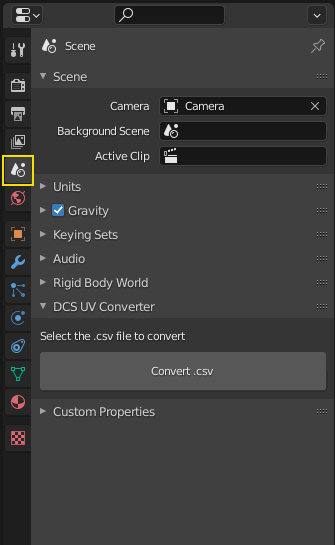
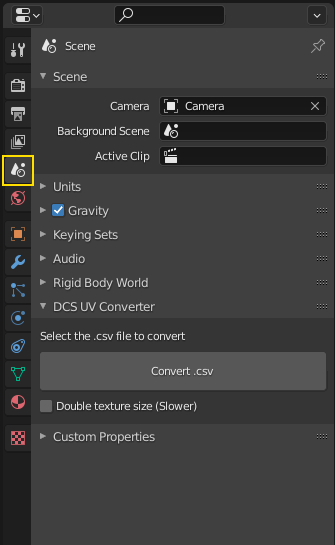
0.2.0-alpha update

Changed region(s): [[0.1194, 0.7174, 0.4776, 0.811], [0.4776, 0.7174, 0.597, 0.7486]]

diff --git a/DCSUVConverter/__init__.py b/DCSUVConverter/__init__.py
@@ -1,7 +1,7 @@
 bl_info = {
     "name": "DCS UV Converter",
     "author": "Ettenmure",
-    "version": (0, 1, 0),
+    "version": (0, 2, 0),
     "blender": (2, 92, 0),
     "location": "Scene Properties",
     "description": "Converts UV maps generated on ModelViewer 2 to an image format",
@@ -10,42 +10,92 @@ bl_info = {
     "category": "UV",
 }
 
+# TODO: 
+# Fix self report not working.
+# Change from bpy.ops to bmesh.
+# Follow Blender API best practices.
+
 import bpy
 import os
 import csv
 import bmesh
 import mathutils
 
-from bpy.props import StringProperty, BoolProperty
+from bpy.props import (StringProperty,
+                       BoolProperty,
+                       IntProperty,
+                       FloatProperty,
+                       FloatVectorProperty,
+                       EnumProperty,
+                       PointerProperty,
+                       )
+from bpy.types import (Panel,
+                       Operator,
+                       AddonPreferences,
+                       PropertyGroup,
+                       )
 from bpy_extras.io_utils import ImportHelper
-from bpy.types import Operator
 
 
-#TODO: Separate it into modules.
-
-class DUCConvertCSV(Operator, ImportHelper):
-    """Select the .csv file to convert"""      # Use this as a tooltip for menu items and buttons.
-    bl_idname = "object.duccsvimport"        # Unique identifier for buttons and menu items to reference.
+# Runs the conversion when the button is pressed.
+class DUCMain(Operator):
+    """Begins the conversion process"""      # Use this as a tooltip for menu items and buttons.
+    bl_idname = "object.duc_main"        # Unique identifier for buttons and menu items to reference.
     bl_label = "Convert .csv"         # Display name in the interface.
+    
+    def execute(self, context):
+        
+        try: # Sets it to object mode.
+            bpy.ops.object.mode_set(mode='OBJECT')
+        except:
+            pass
+        
+        # Deletes objects on the scene. Has to be inside execute or it will cause a failure to activate the Add-on.
+        bpy.ops.object.select_all(action='SELECT')
+        bpy.ops.object.delete(use_global=False)
+        
+        bpy.ops.object.duc_import_csv('INVOKE_DEFAULT') # Moves to the next step, importing.
+        
+        return {'FINISHED'}
+
+
+# Imports the data from the .csv file
+class DUCImportCSV(Operator, ImportHelper):
+    """Imports the data"""
+    bl_idname = "object.duc_import_csv"
+    bl_label = "Import .csv"
     
     filter_glob: StringProperty(
         default='*.csv', # Restricts the selectable file type to .csv only.
         options={'HIDDEN'}
     )
+    
     def execute(self, context):
-        
-        # Deletes objects on the scene.
-        bpy.ops.object.select_all(action='SELECT')
-        bpy.ops.object.delete(use_global=False)
-        
-        # Imports the data from the csv file and saves it in "data".
-        data = []
+        RawData = []
+        # Imports the data from the .csv file and saves it in "RawData".
         with open(self.filepath) as f:
             reader = csv.reader(f)
             for row in reader:
-                data.append(row)
+                RawData.append(row)
         
-        # Saves the size of the image.
+        bpy.context.scene["RawData"] = RawData # Saves it to the scene so that the next class can use it.
+        bpy.context.scene["DUCFilePath"] = self.filepath
+        
+        #bpy.ops.object.mode_set(mode='OBJECT')
+        bpy.ops.object.duc_treat_csv('INVOKE_DEFAULT') # Moves to the next step, treating the raw data.
+
+        return {'FINISHED'} 
+
+
+# Generates "vertices" and "faces" (vertex index list) from "RawData".
+class DUCTreatCSV(Operator):
+    """Treats the data"""
+    bl_idname = "object.duc_treat_csv"
+    bl_label = "Treat .csv"
+    
+    def execute(self, context):
+        data = bpy.context.scene["RawData"]
+        # Saves the size of the original image.
         hsize = float(data[1][0]) # Horizontal size of the texture
         vsize = float(data[1][1]) # Vertical size of the texture
         
@@ -79,6 +129,26 @@ class DUCConvertCSV(Operator, ImportHelper):
             faces[j] = (k,k+1,k+2)
             j +=1
             k +=3
+        
+        bpy.context.scene["GenVertices"] = vertices # Saves it to the scene so that the other classes can use it.
+        bpy.context.scene["GenFaces"] = faces
+        bpy.context.scene["hsize"] = hsize
+        bpy.context.scene["vsize"] = vsize
+        
+        bpy.ops.object.duc_mesh('INVOKE_DEFAULT') # Moves to the next step, generating the mesh.
+        
+        return {'FINISHED'}
+
+# Creates a mesh from variables "vertices" and "faces".
+class DUCMesh(Operator):
+    """Generates the mesh"""
+    bl_idname = "object.duc_mesh"
+    bl_label = "Convert .csv"
+    
+    def execute(self, context):
+        
+        vertices = bpy.context.scene["GenVertices"]
+        faces = bpy.context.scene["GenFaces"]
         
         # Creates the mesh from variables "vertices" and "faces".
         edges = []
@@ -165,7 +235,19 @@ class DUCConvertCSV(Operator, ImportHelper):
         
         bpy.ops.mesh.select_all(action='SELECT')
         
-        # Unwraps the mesh.
+        bpy.ops.object.duc_unwrap('INVOKE_DEFAULT') # Moves to the next step, unmwraping the mesh.
+        
+        return {'FINISHED'} 
+
+
+# Unwraps the mesh.  
+class DUCUnwrap(Operator):
+    """Unwraps the mesh"""
+    bl_idname = "object.duc_unwrap"
+    bl_label = "Main"
+    
+    def execute(self, context):
+        
         obj = context.active_object
         me = obj.data
         bm = bmesh.from_edit_mesh(me)
@@ -188,22 +270,63 @@ class DUCConvertCSV(Operator, ImportHelper):
 
         for loop in ob.data.loops :
             ob.data.uv_layers.active.data[loop.index].uv = ob.data.uv_layers.active.data[loop.index].uv + travec
-            
+        
+        bpy.ops.object.duc_export('INVOKE_DEFAULT') # Moves to the next step, exporting the UV map.
+        
+        return {'FINISHED'}
+
+# Exports the UV map.  
+class DUCExport(Operator):
+    """Exports the UV map"""
+    bl_idname = "object.duc_export"
+    bl_label = "Main"
+        
+    def execute(self, context):
+        
+        TextureScale = 1
+        ChechboxState = context.scene.my_tool.my_bool # State of the checkbox
+        
+        if (ChechboxState == True): # Doubles the texture size if the checkbox is activated.
+            TextureScale = 2
+        else:
+            pass
+        
+        hsize = int(bpy.context.scene["hsize"]) * TextureScale
+        vsize = int(bpy.context.scene["vsize"]) * TextureScale
+                
         # Exports the texture on the same folder as the .csv file.
-        expfilepath = self.filepath # Gets the filepath of the .csv file.
+        expfilepath = bpy.context.scene["DUCFilePath"] # Gets the filepath of the .csv file.
         expfilepath = expfilepath[:-4] # Removes the last four characters (.csv).
         expfilepath = expfilepath + '_UV' # Adds _UV to the file name.
-        bpy.ops.uv.export_layout(filepath=expfilepath, export_all=True, mode='PNG', size=(int(hsize), int(vsize)))
+
+        bpy.ops.uv.export_layout(filepath=expfilepath, export_all=True, mode='PNG', size=(hsize, vsize))
         
         # Deletes the mesh.
         bpy.ops.object.delete(use_global=False)
         
-        self.report({'INFO'}, "UV Conversion finished.")
+        # Removes data so that the .blend file doesn't balloon in size.
+        bpy.context.scene["RawData"] = [(0,0,0)]
+        bpy.context.scene["GenVertices"] = [(0,0,0)]
+        bpy.context.scene["GenFaces"] = [(0,0,0)]
+        bpy.context.scene["DUCFilePath"] = [(0,0,0)]
+        bpy.context.scene["hsize"] = [(0,0,0)]
+        bpy.context.scene["vsize"] = [(0,0,0)]
         
-        return {'FINISHED'} 
-    
+        #self.report({'INFO'}, 'UV Conversion finished.') Commented out, not working.
+        
+        return {'FINISHED'}
 
-class LayoutDUCButtons(bpy.types.Panel):
+# Stores properties in the active scene.
+class MySettings(PropertyGroup):
+
+    my_bool : BoolProperty(
+        name="Enable or Disable",
+        description="Warning: Slows conversion",
+        default = False
+        )
+
+# Adds the UI.
+class LayoutDUCButtons(Panel):
     """Creates a Panel in the scene context of the properties editor"""
     bl_label = "DCS UV Converter"
     bl_idname = "SCENE_PT_layout"
@@ -213,26 +336,43 @@ class LayoutDUCButtons(bpy.types.Panel):
 
     def draw(self, context):
         layout = self.layout
-
         scene = context.scene
-
+        mytool = scene.my_tool
+        
         # Convert button.
         layout.label(text="Select the .csv file to convert")
         row = layout.row()
         row.scale_y = 2.0
-        row.operator("object.duccsvimport")
+        row.operator("object.duc_main")
         
+        # x2 texture size checkbox.
+        layout.prop(mytool, "my_bool", text="Double texture size (Slower)")
         
+# Registers all of the classes.
+classes = (
+    DUCMain,
+    DUCImportCSV,
+    DUCTreatCSV,
+    DUCMesh,
+    DUCUnwrap,
+    DUCExport,
+    LayoutDUCButtons,
+    MySettings,
+)
         
 def register():
-    bpy.utils.register_class(DUCConvertCSV)
-    bpy.utils.register_class(LayoutDUCButtons)
+    from bpy.utils import register_class
+    for cls in classes:
+        register_class(cls)
 
+    bpy.types.Scene.my_tool = PointerProperty(type=MySettings)
 
 def unregister():
-    bpy.utils.unregister_class(DUCConvertCSV)
-    bpy.utils.unregister_class(LayoutDUCButtons)
-
+    from bpy.utils import unregister_class
+    for cls in reversed(classes):
+        unregister_class(cls)
+    
+    del bpy.types.Scene.my_tool
 
 # This allows you to run the script directly from Blender's Text editor
 # to test the add-on without having to install it.

diff --git a/README.md b/README.md
@@ -12,13 +12,19 @@ Download and install Blender 2.92.0 from https://www.blender.org/download/
 
 Download the latest release of the Add-on from https://github.com/Ettenmure/dcs-uv-converter/releases
 
-### Activating the Add-on in Blender
+### Installing the Add-on in Blender
 
 In Blender, on the top left of the screen go to Edit > Preferences.
 
 Open the Add-ons menu and click "Install", locate the previously downloaded "DCSUVConverter.zip" and click "Install Add-on".
 
 Next, click on the checkbox to the left of the Add-on name to active it. Exit Blender.
+
+### Updating from an older version
+
+If you have an older version of the Add-on already installed, you should remove the old one first and then install the new one.
+
+![Readme4](./images/ReadmeImage4.PNG)
 
 ## Usage
 
@@ -40,18 +46,18 @@ On the Properties editor, at the right of the screen, change to the "Scene" tab.
 
 ![Readme1](./images/ReadmeImage1.PNG)
 
-Here you should see an entry called "DCS UV Converter", expand it to reveal the "Convert .csv" button.
+Here you should see an entry called "DCS UV Converter", expand it to reveal the "Convert .csv" button and the "double texture resolution" checkbox.
+Activating the checkbox will double the resolution of the generated UV map but it will also slow down the conversion process.
 
 Click the grey "Convert .csv" button. A new window will open asking you to locate on your hard drive the .csv file that you previously created.
-Select it and press the blue "Convert .csv" button.
+Select it and press the blue "Import .csv" button.
 
 ![Readme2](./images/ReadmeImage2.PNG)
 
 The conversion process has now begun, this can last from seconds to minutes depending on the complexity of the UV map and your computer hardware. 
 Do not exit blender while it's running.
 
-Once it finishes you will be notified in two forms. First, a small message saying "UV Conversion finished." will briefly appear at the status bar on the bottom of the screen. 
-Second, on the outliner editor at the top right of the screen a new collection called "Conversion finished" will appear.
+Once it finishes you will be notified on the outliner editor, at the top right of the screen, with a new collection appearing called "Conversion finished".
 
 ![Readme3](./images/ReadmeImage3.PNG)
 
@@ -61,16 +67,26 @@ The generated UV map is an image in .png format that will be located at the same
 
 ## Troubleshooting
 
-**There is no "DCS UV Converter" at the scene tab**
+**The Add-on fails to install**
 
-- The Add-on has either not been installed or is installed but not activated. Please review the documentation for Blender Add-ons:
+- Try a manual installation. Extract the .zip file and move the folder named "DCSUVConverter", which contains "\_\_init\_\_.py", to:
+
+  C:\Users\\%USERNAME%\AppData\Roaming\Blender Foundation\Blender\2.92\scripts\addons
+
+  If you have never installed an Add-on before you might not have the "scripts" or "addons" folders and you will have to create them manually.
+
+  Next open Blender, or refresh the menu if it was already open, and on the Add-ons menu search for DCS.
+  Activate the Add-on by clicking on the checkbox to the left of the Add-on name.
+
+**The Add-on is installed but there is no "DCS UV Converter" at the scene tab**
+
+- The Add-on might not have been activated. Confirm that the checkbox to the left of the Add-on name in the Add-ons menus is active.
+Also review the documentation for Blender Add-ons:
 https://docs.blender.org/manual/en/latest/editors/preferences/addons.html
-
 
 ## Planned features
 
 These have not been implemented yet but are planned for later releases:
 
 - Batch conversion
-- UV maps two and four times the size of the original texture
 - Additional image export options

diff --git a/CHANGELOG.md b/CHANGELOG.md
@@ -3,7 +3,13 @@ All notable changes to this project will be documented in this file.
 
 The format is based on [Keep a Changelog](https://keepachangelog.com/en/1.0.0/).
 
-## [Unreleased]
+## [0.2.0-alpha] - 2021-04-27
+### Added
+- Checkbox for double resolution UV map.
+
+### Changed
+- \_\_init\_\_.py, the conversion process has been moved from one single class into multiple ones.
+- README.md, added sections for updating from an older version and manually installing the Add-on.
 
 ## [0.1.0-alpha] - 2021-04-21
 ### Added
@@ -13,4 +19,5 @@ The format is based on [Keep a Changelog](https://keepachangelog.com/en/1.0.0/).
 - LICENSE
 - README.md
 
+[0.2.0-alpha]: https://github.com/Ettenmure/dcs-uv-converter/releases/tag/0.2.0-alpha
 [0.1.0-alpha]: https://github.com/Ettenmure/dcs-uv-converter/releases/tag/0.1.0-alpha
